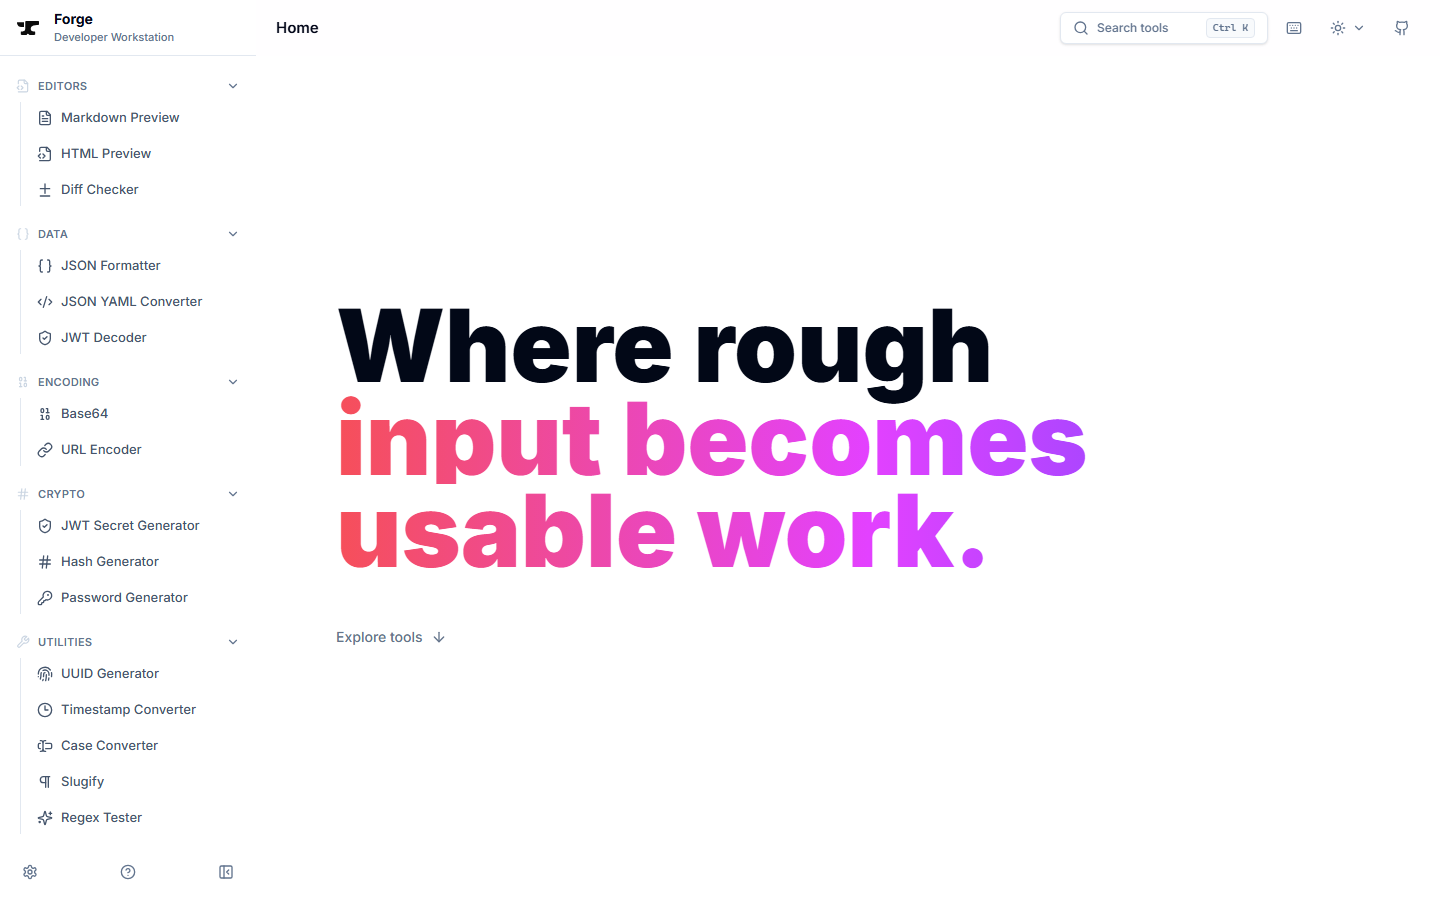
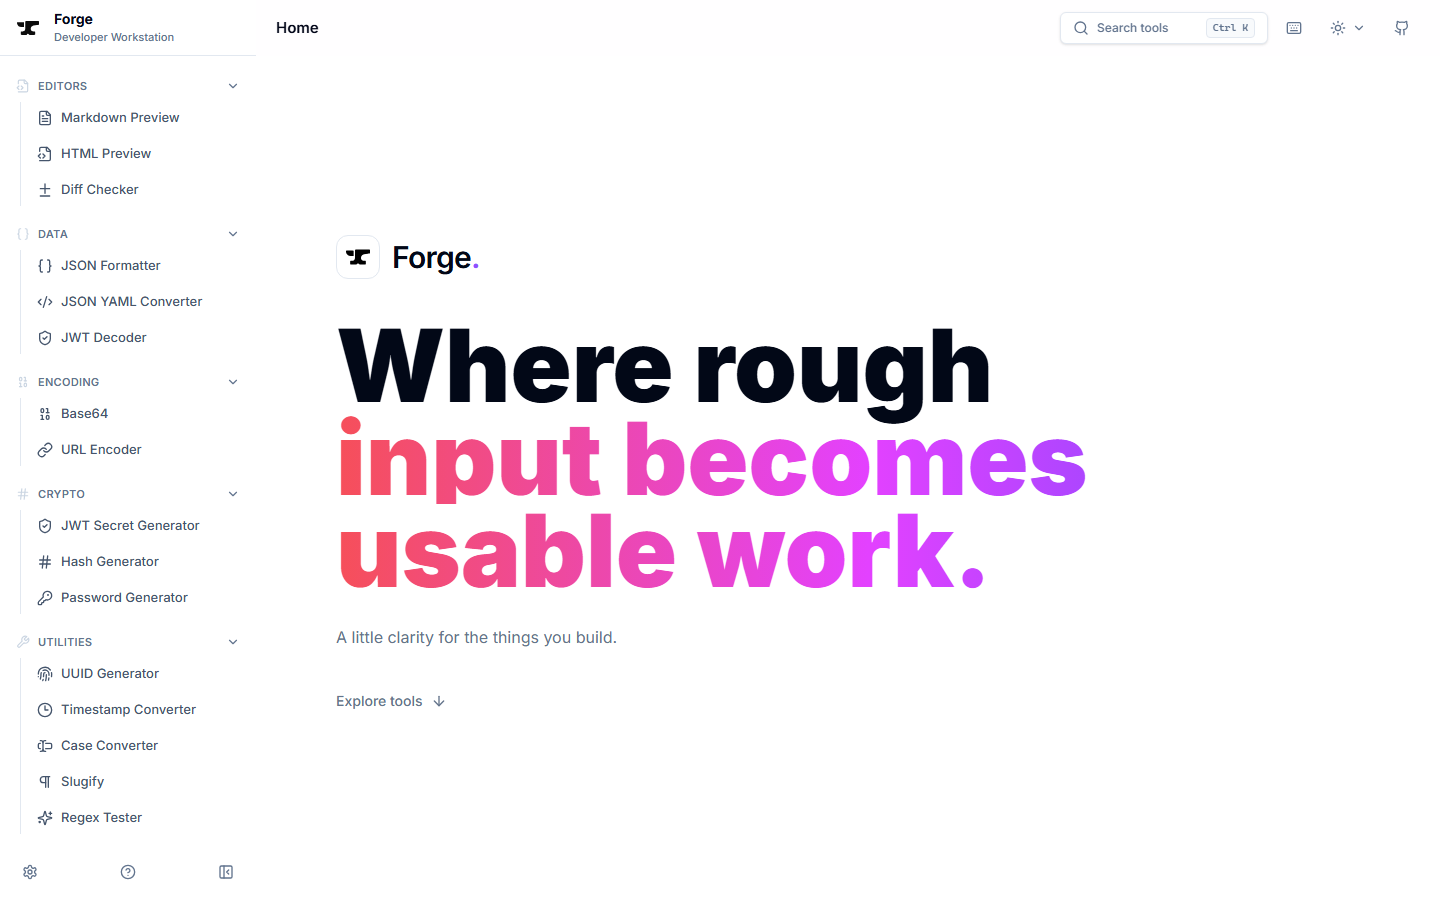
feat(home): give the signature a Forge identity and document preview roadmap

diff --git a/src/pages/home/HomePage.tsx b/src/pages/home/HomePage.tsx
@@ -54,20 +54,32 @@ export function HomePage(): JSX.Element {
           aria-labelledby="forge-signature"
           className="flex min-h-[calc(100dvh-7.5rem)] flex-col justify-center py-8 sm:py-12"
         >
+          <div className="mb-8 flex items-center gap-3 sm:mb-10">
+            <span className="flex h-11 w-11 items-center justify-center rounded-xl border border-border bg-card text-foreground">
+              <img alt="" src="/forge-black.svg" className="h-6 w-6 dark:hidden" />
+              <img alt="" src="/forge-white.svg" className="hidden h-6 w-6 dark:block" />
+            </span>
+            <span className="text-3xl font-semibold tracking-tight">
+              Forge<span className="text-violet-500">.</span>
+            </span>
+          </div>
           <h1
             className="max-w-full text-[clamp(2.1rem,7vw,6.9rem)] font-black leading-[0.92] tracking-normal"
             id="forge-signature"
           >
-            <span className="block">Where rough</span>
+            <span className="block">Where rough </span>
             <span className="block bg-brand-gradient bg-clip-text text-transparent">
-              input becomes
+              input becomes{" "}
             </span>
             <span className="block bg-brand-gradient bg-clip-text text-transparent">
               usable work.
             </span>
           </h1>
+          <p className="mt-7 max-w-md text-sm leading-6 text-muted-foreground sm:text-base">
+            A little clarity for the things you build.
+          </p>
           <button
-            className="mt-10 inline-flex min-h-10 w-fit items-center gap-2 rounded-md text-sm font-medium text-muted-foreground hover:text-foreground focus-visible:outline-none focus-visible:ring-2 focus-visible:ring-sky-600"
+            className="mt-8 inline-flex min-h-10 w-fit items-center gap-2 rounded-md text-sm font-medium text-muted-foreground hover:text-foreground focus-visible:outline-none focus-visible:ring-2 focus-visible:ring-sky-600"
             onClick={exploreTools}
             type="button"
           >

diff --git a/e2e/home.spec.ts b/e2e/home.spec.ts
@@ -8,7 +8,7 @@ test("home lists tools, filters by task and recovers from an empty search", asyn
   const cards = main.locator('[aria-label="Tool directory"] a');
   await expect(cards).toHaveCount(16);
   await expect(main.getByRole("heading", { level: 1 })).toHaveText(
-    "Where roughinput becomesusable work.",
+    "Where rough input becomes usable work.",
   );
   await expect(
     main.getByRole("heading", { name: "Tools for everyday development" }),

diff --git a/docs/development/markdown-preview-reference.md b/docs/development/markdown-preview-reference.md
@@ -1,0 +1,51 @@
+# Markdown preview: reference review and delivery plan
+
+Reviewed the local `ref/Markdown-Viewer` checkout (Apache-2.0), focusing on
+`src/document-toc.mjs`, scroll synchronization in `script.js`, and its rich-content
+export preparation. This is an implementation review of the checked-out source,
+not a claim that every advertised feature has been verified in a running app.
+No reference code has been copied into Forge.
+
+## Findings
+
+- Scroll synchronization remembers the actual rounded/clamped target position
+  in a WeakMap and rejects events for an outdated document. Forge already uses
+  this pattern, plus ResizeObserver and explicit user-intent tracking. Preserve
+  those protections; copying its timeout-based lock would regress our lifecycle.
+- Outline headings come from Marked AST tokens, not a Markdown regex. IDs are
+  allocated before depth filtering, including collisions such as `a`, `a`, `a-1`.
+  Use one document-scoped slugger for both rendered IDs and outline links.
+- Export creates a separate render root, waits for diagrams, math, images and
+  fonts, removes interactive controls, and cleans up after failure. Forge currently
+  captures the live preview and exports HTML from pre-diagram HTML; these paths
+  need explicit readiness and error handling before adding more renderers.
+- Workspace IndexedDB, recoverable trash, local file import, find/replace and
+  document outline are useful directions. Sharing, remote renderer APIs and CDN
+  loading are separate architectural choices, not defaults for Forge.
+
+## Small branches, in order
+
+1. `fix/markdown-export-safety`: extract export services, escape document titles,
+   remove the hard-coded remote KaTeX stylesheet, prepare a document snapshot and
+   report failures. Test hostile titles, edits during capture, delayed Mermaid,
+   math, broken images and cancellation/cleanup. Keep source Markdown intact.
+2. `feat/markdown-outline`: AST-derived H1-H6 outline with collision-safe IDs,
+   empty state, keyboard navigation and a toggle that works on a phone. Navigate
+   only the preview scroll owner; never scroll the application shell. Test inline
+   formatting, Unicode, duplicate headings, code fences and tab changes. Add
+   section-aware editor navigation only after source offsets are reliable.
+3. `feat/markdown-find-replace`: document-scoped literal search first, previous/
+   next match, replace and replace-all with undo support and clear match counts.
+   Test Unicode, newlines, zero matches and caret/selection after replacement.
+4. `feat/markdown-diagram-controls`: fit, zoom, reset and local SVG download for
+   existing Mermaid diagrams. Keep strict rendering and sanitize downloaded SVG.
+   Verify keyboard controls, touch, small screens and asynchronous re-rendering.
+5. `feat/workspace-recovery`: evaluate IndexedDB and recoverable deletion with
+   versioned migration, quota failure and export/restore coverage before changing
+   the current storage contract. Avoid silently migrating or dropping drafts.
+
+Each branch must pass `pnpm check`, relevant desktop/phone browser checks and CI
+before integration into develop. Broader Firefox/WebKit coverage remains needed.
+Do not bring remote renderers or collaboration into these branches. If reference
+code is reused later, review Apache-2.0 attribution/NOTICE requirements first;
+Forge's current MIT license alone does not cover copied third-party code.

diff --git a/docs/development/typography.md b/docs/development/typography.md
@@ -6,7 +6,9 @@ Forge has two font roles, defined once in `src/app/styles.css`:
   prose. Tailwind `font-sans` resolves to this same token. Headings use size and
   weight for hierarchy rather than an additional display family. The home signature
   is an intentional exception to the restrained heading scale: the original
-  large black-weight Inter lettering and brand gradient sit above the directory.
+  large black-weight Inter lettering and brand gradient sit above the directory,
+  paired with the existing Forge logo and wordmark. Keep real spaces between
+  visual line breaks so the accessible heading reads as a sentence.
 - `--font-code`: one system monospace stack for HTML/code editors, structured
   data, keyboard keys and rendered Markdown code blocks. Do not use monospace
   for decorative labels or marketing copy. Markdown source intentionally uses

diff --git a/docs/development/roadmap.md b/docs/development/roadmap.md
@@ -177,3 +177,9 @@ browser results and screenshots to visual PRs. Enable required Quality checks
 and review protection for main/develop in repository settings. CI includes unit/integration/build and Chromium desktop/phone browser checks.
 Dependency update automation, Firefox/WebKit coverage and deployment smoke checks
 remain follow-up work.
+
+## Markdown preview reference
+
+See [reference review and delivery plan](markdown-preview-reference.md) for the
+local Markdown-Viewer audit and scoped follow-up branches, starting with export
+correctness, then document outline, find/replace and diagram controls.

diff --git a/docs/README.md b/docs/README.md
@@ -21,6 +21,7 @@ collection of unrelated websites.
 - [Contributing](../CONTRIBUTING.md)
 - [Architecture](development/architecture.md)
 - [Roadmap and UI/UX audit](development/roadmap.md)
+- [Markdown preview reference review](development/markdown-preview-reference.md)
 
 ## Documentation Goals
 
